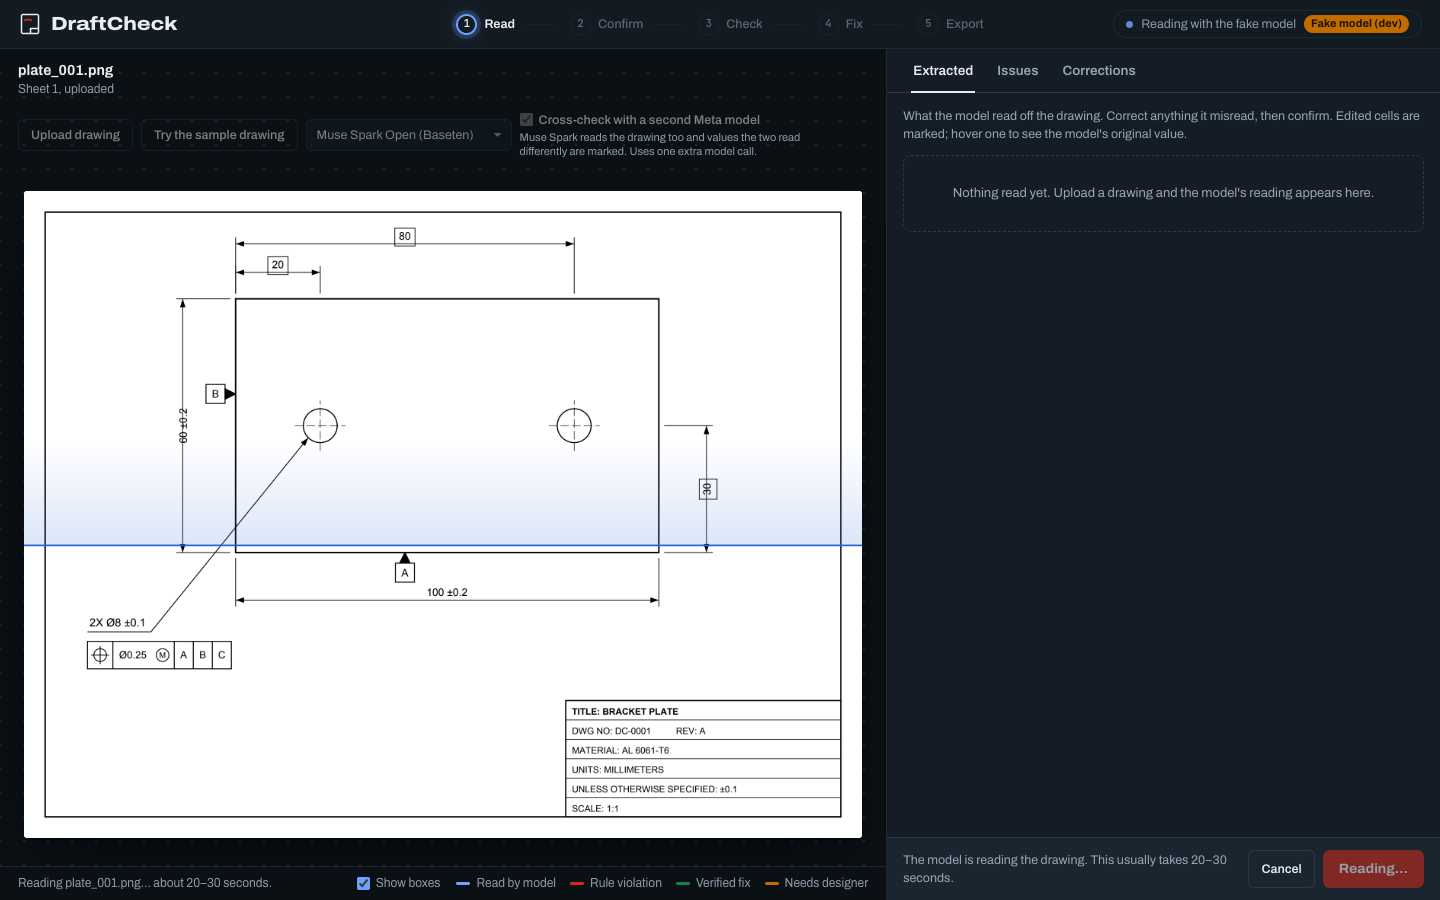
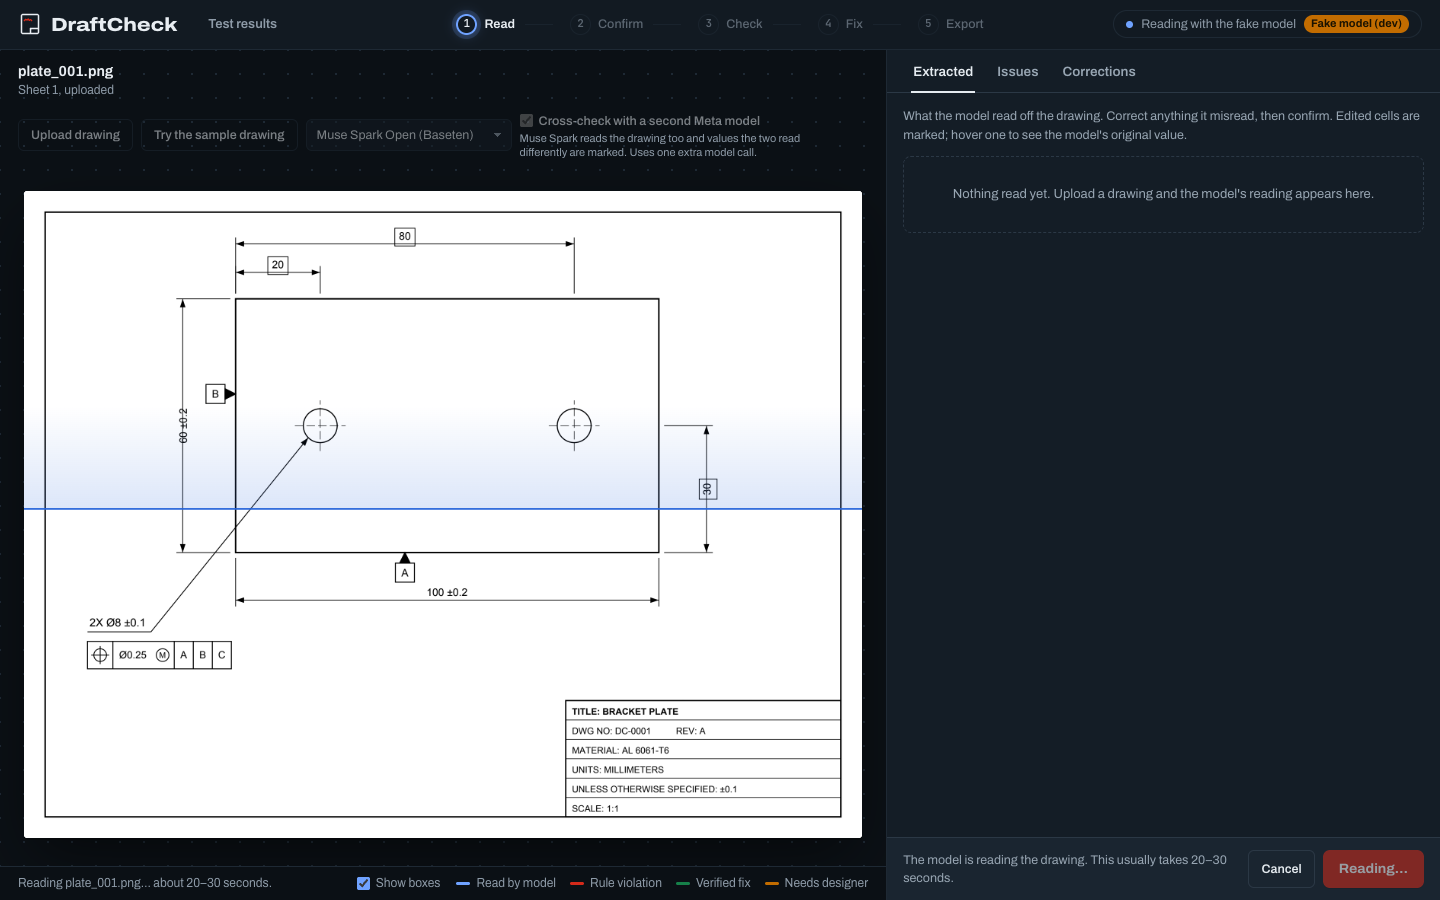
docs: final README with every feature, current test count, and new screenshots

diff --git a/README.md b/README.md
@@ -15,24 +15,26 @@ Every engineering drawing is checked by hand before it is released. The checker 
 
 1. **Upload** a drawing (PDF or image), or try the built-in sample.
 2. **Muse Spark reads it.** It turns the sheet into structured data: dimensions, tolerances, feature control frames, datums, units, and the general tolerance.
-3. **The engineer confirms.** Every value is shown in an editable table next to the drawing, with a box around the item on the sheet. Low-confidence readings and cross-check disagreements are marked.
-4. **Six rules check it.** These are deterministic Python checks, and each one reports pass, fail, or not applicable with a sentence that uses the drawing's own values.
-5. **The agent proposes fixes.** For each error, the model suggests the smallest edit, with a one-sentence engineering reason.
-6. **The rules verify the fixes.** Each proposed edit is applied to a copy of the data and the same rules run again. Only that re-run decides whether a fix worked.
-7. **Export** a redlined PDF (marked-up sheet plus a page listing each correction) and a CSV of corrections.
-8. **Learn from it.** For students, "Explain this drawing" asks the model what the part likely is and why each dimension, frame, and datum is there. The notes are labelled as AI explanations, kept only where they name real items, and never used by the rules.
+3. **Cross-check (optional, on by default).** Muse Spark reads the same page in parallel. Python compares the two readings value by value and marks every disagreement in the table and on the sheet ("Both Meta models agree on 43 of 44 values; 1 to double-check").
+4. **The engineer confirms.** Every value is shown in an editable table next to the drawing, with a box around the item on the sheet. Low-confidence readings and cross-check disagreements are marked.
+5. **Six rules check it.** Deterministic Python checks. The **check report** lists all six with pass or fail and a sentence that uses the drawing's own values ("The frames reference A, B, C, but nothing defines C").
+6. **Live agent rounds.** The model proposes the smallest edit for each error, with a one-sentence engineering reason. Rounds are **streamed**: each one appears on the page as soon as the rules have re-checked it, showing what was verified, rolled back, or refused.
+7. **The rules verify, and failed edits are rolled back.** Each edit is applied to a copy of the data and the rules run again. An edit that does not clear the findings it cites is taken back before the next round, so the drawing only ever carries edits the rules confirmed. The check report then shows the drawing **before and after fixes**.
+8. **Export** a redlined PDF (marked-up sheet plus a page listing each correction) and a CSV of corrections.
+9. **About this drawing.** For students, "Explain this drawing" asks the model what the part likely is, which **views** are drawn and what each shows, the **projection** (first-angle, third-angle, or unclear, with the reason), any tables and balloons, and why each dimension, frame, and datum is there. The notes are labelled as AI explanations, kept only where they name real items, and never used by the rules.
+10. **Test results dashboard.** Every eval drawing, its scores per model, and which seeded issues each model caught: **[draftcheck.onrender.com/eval.html](https://draftcheck.onrender.com/eval.html)**.
 
-The screenshots below were captured locally with the **dev fake model** (`DRAFTCHECK_FAKE_MODEL=1`), which returns a saved real reading of the sample drawing so the page can be shown without calling a live model. The rules, the correction loop, and the redline all ran for real.
+The screenshots below were captured with headless Chrome against a local server running the **dev fake model** (`DRAFTCHECK_FAKE_MODEL=1`, with `DRAFTCHECK_FAKE_SCENARIO=reject_then_fix`). It returns a saved real reading of the sample drawing and scripts three correction rounds (one refused, one that fails and is rolled back, one that works), so the page can be shown without calling a live model. The rules, the rollback, the check report, and the redline all ran for real.
 
 | Reading | Confirm |
 | --- | --- |
 | ![The drawing being read, with a scan band across the sheet](docs/images/01-reading.png) | ![Extracted tables next to the drawing, with item boxes and a cross-check disagreement marker on dim_5](docs/images/02-confirm.png) |
-| **Checked** | **Done** |
-| ![Six check results with one failure, and a red revision cloud around the feature control frame](docs/images/03-checked.png) | ![The verified fix shown with a pen label and a CHECKED stamp](docs/images/04-done.png) |
-
-![Corrections tab with a before/after table and download buttons](docs/images/05-corrections.png)
-
-![The "About this drawing" card with a part-type chip, summary, and features, and AI notes under each datum row](docs/images/06-explain.png)
+| **Checked** | **Live rounds** |
+| ![Check report: six checks, five passed and one failed, with a red revision cloud around the feature control frame](docs/images/03-checked.png) | ![Mid-fix: rounds 1 and 2 have arrived (one edit refused, one rolled back) while round 3 is still proposing](docs/images/07-live-rounds.png) |
+| **Done** | **Corrections** |
+| ![Check report after fixes (6 of 6 passed), the verified fix in green, the rolled-back edit struck through, and a CHECKED stamp](docs/images/04-done.png) | ![Corrections tab: one verified edit, one failed and rolled back, and download buttons](docs/images/05-corrections.png) |
+| **About this drawing** | **Test results dashboard** |
+| ![The About this drawing card with part type, summary, features, views, projection, and balloons](docs/images/06-explain.png) | ![The test results dashboard: totals per model and a gallery of the 17 eval drawings](docs/images/08-dashboard.png) |
 
 ## How it uses Meta's models
 
@@ -61,6 +63,7 @@ Safeguards that enforce it:
 - **A fixed edit menu.** The agent can only propose four operations: set a field, add a datum, remove a datum reference from a frame, or add a dimension.
 - **No deletions.** There is no operation that deletes a dimension, frame, or datum, and a backstop check rejects any edit that would make an existing item disappear. Deleting a callout is the cheapest way to make a finding go away, so it is not allowed.
 - **Verdicts only come from re-running the rules.** The model's claim that its fix worked is recorded but never used.
+- **Failed edits are rolled back.** An applied edit that the re-run shows did not work is removed before the next round and reported as "Failed, rolled back", never kept on the drawing.
 - **A 3-round cap** on the correction loop.
 - **Every rule explains itself** from real values: "The frames reference A, B, C, but nothing defines C."
 - **Fixes are proposals.** They are marked for engineer review, and the CLI's exit code always describes the drawing as submitted.
@@ -156,9 +159,10 @@ Each rule is written in my own words and has a `source` field that cites its ref
 
 ## Engineering
 
-- **595 tests** (`pytest`), plus `ruff` linting.
+- **831 tests** (`pytest`), plus `ruff` linting.
 - **CI on every pull request** (GitHub Actions runs ruff and pytest), and **branch protection** on `main` requires CI to pass.
-- **Usage limits** for the free demo: 5 uploads and 10 fix requests per IP per hour, and 100 model calls per day across everyone. Uploaded drawings are deleted after 24 hours.
+- **Live smoke test** (`python -m scripts.smoke_live --explain`): walks the sample through the public site the way the browser does (health, pages, upload with cross-check, check, streamed fix, redline PDF, explanation) and passed **7/7 steps against the live site**. It also flags a stream that a proxy buffered instead of delivering round by round.
+- **Usage limits** for the free demo: 5 uploads, 10 fix requests, and 10 explanations per IP per hour, and 100 model calls per day across everyone. Uploads are capped at 10 MB, and uploaded drawings are deleted after 24 hours.
 - **Cancel** buttons for reading and fixing. Cancel reaches the server and aborts the model call.
 - **Time limits:** each model call has a 90 s limit on the deployed server.
 - **Fallback:** a Baseten call with no answer after 45 s is sent once to the Meta Model API. Who answered is recorded on the page, in the files, and on the redline stamp.
@@ -261,6 +265,9 @@ ruff check .
 - Assembly checks: parts lists, balloons, BOM consistency, fits between parts.
 - More rules.
 - Per-hole diameters for MFG-001.
+- Link each frame to the feature it controls, enabling checks for wrong symbols (e.g. MMC on a flat surface) and inconsistent dimension chains.
+- Stress tests with cluttered, overlapping drawings.
+- Docker image and docker compose.
 - SAM 3.1 for precise regions around each callout.
 - Redlines written back into CAD-native formats.
 - Accounts, saved history, and revision comparison (Rev A vs Rev B).
